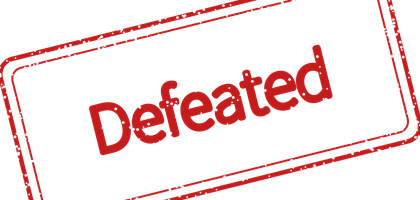
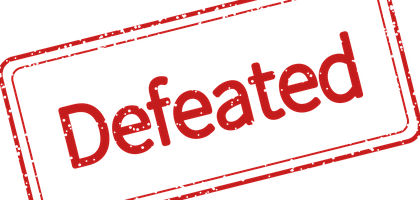
#237再4/#287再3/#265再12 の3件を反映
#237再4: 港にいる間も敵が近接攻撃を続け、被弾音だけが鳴っていた件
  原因は docking_locked の寿命。寄港が「完了」した時点で false に戻していたため、
  港にいる間は敵側のガードが一切効かなかった(ダメージは別経路で無効化されるので
  音だけが残った)。解除は出港(set_sail)に任せ、寄港完了では解除しない。
  あわせて起動直後の初期化では立てないようにし、敵の掃除も enemies 配列頼みを
  やめて子ノードから直接消すようにした(配列から漏れた個体が居残るのを防ぐ)。
  判定は GameState.combat_active() に集約。

#287再3: Defeatedスタンプの文字を 70 -> 78pt へ拡大。
  86pt も試したが、14度傾けたときに D と d の端が内枠の線に触れるため 78pt とした。
  確認用に --shot:port:tavern:lords:defeated を追加(主を討伐済みにして撮影)。

#265再12: ウェポンマスターを「同時に全種類装備」から
  「全種類を装備したことがある」へ。装備歴 weapons_ever をセーブに持たせ、
  古いセーブでも現在の装備を取り込んで引き継げるようにした。

Claude-Session: https://claude.ai/code/session_0156KZNX93FN6PEoVJK3Qkso

diff --git a/画像生成/討伐済みスタンプ生成.py b/画像生成/討伐済みスタンプ生成.py
@@ -53,8 +53,10 @@ def build() -> None:
     d.rounded_rectangle([pad1, pad1, W * SS - pad1, H * SS - pad1], radius=18 * SS, outline=RED, width=int(4.5 * SS))
     d.rounded_rectangle([pad2, pad2, W * SS - pad2, H * SS - pad2], radius=12 * SS, outline=RED, width=int(2.2 * SS))
 
-    # 中央のテキスト。stroke_width で太らせて視認性を確保する
-    font = ImageFont.truetype(FONT_PATH, int(62 * SS))
+    # 中央のテキスト。stroke_width で太らせて視認性を確保する。
+    # #287再3: 「もう少し大きく」とのご要望で 70 -> 78pt。これ以上大きくすると
+    #   14度傾けたときに D と d の端が内枠の線に触れてしまう。
+    font = ImageFont.truetype(FONT_PATH, int(78 * SS))
     text = "Defeated"
     bbox = d.textbbox((0, 0), text, font=font, stroke_width=int(3 * SS))
     tw, th = bbox[2] - bbox[0], bbox[3] - bbox[1]
